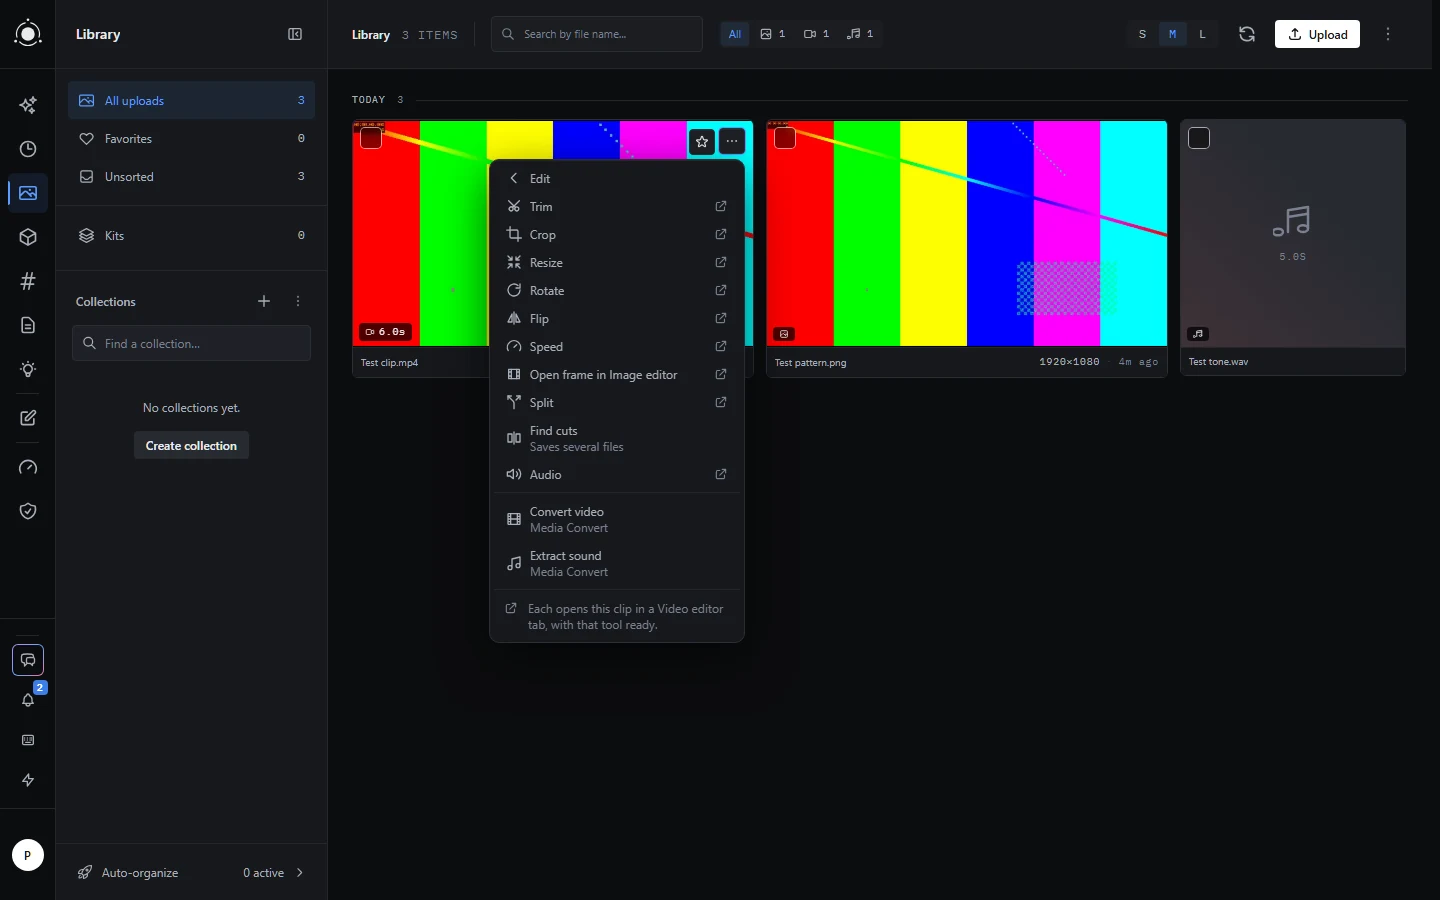
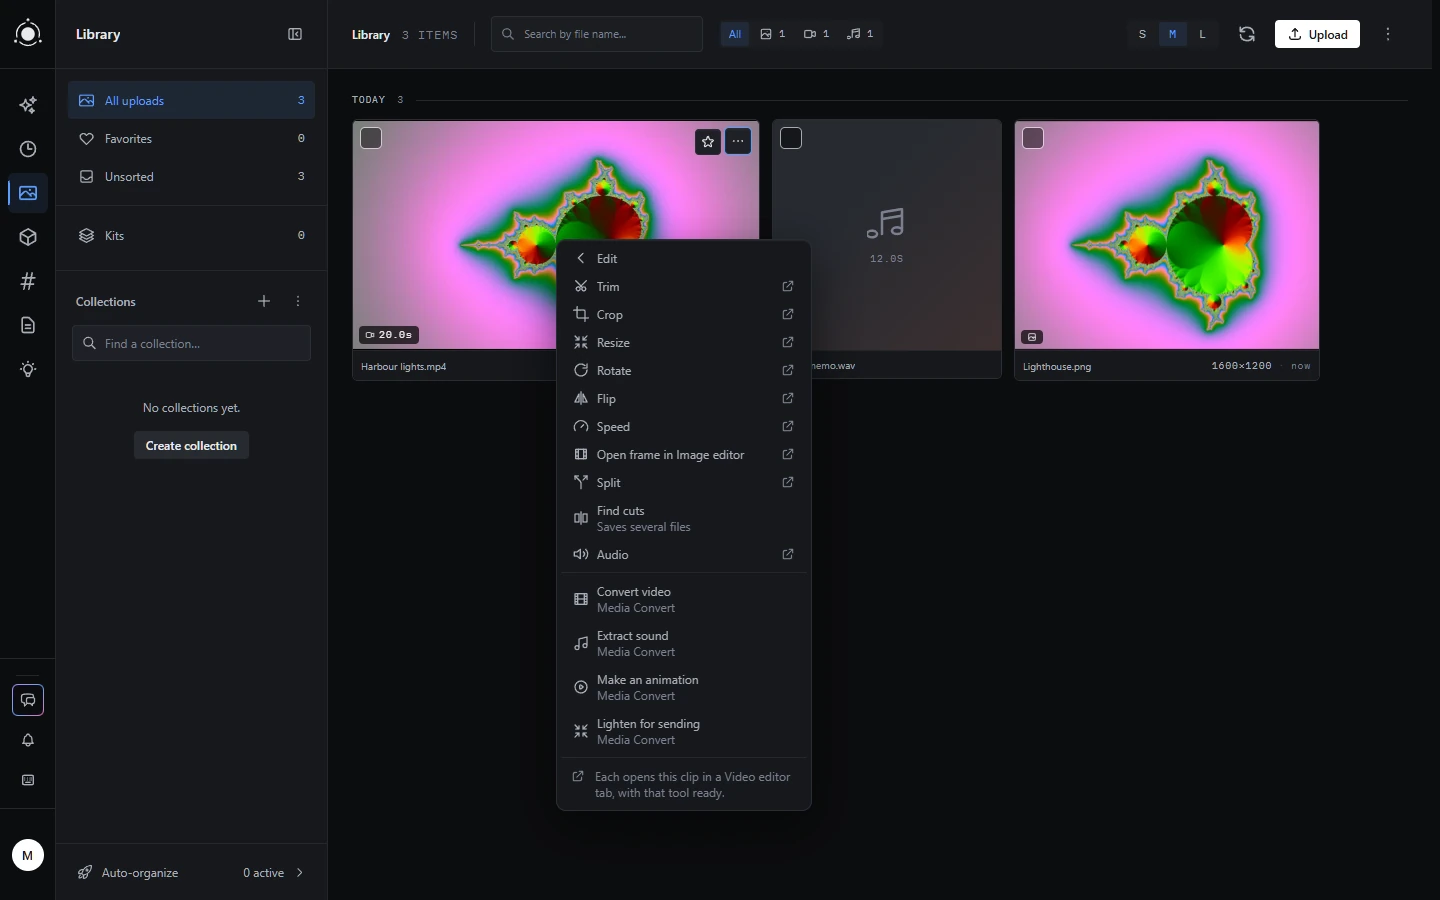
Media Converter README: show the new tools in the dark captures
Replace the capture of the Edit menu of a video, which now lists Make
an animation and Lighten for sending, and add one of the Make an
animation window. Both were taken on a test instance of PotionUI 0.2.0.

Changed region(s): [[0.2188, 0.1244, 1.0, 0.9022], [0.0, 0.7156, 0.0312, 0.8089], [0.0, 0.56, 0.0312, 0.5911]]

diff --git a/media-convert/README.md b/media-convert/README.md
@@ -13,7 +13,7 @@ Version 0.2.0. It needs PotionUI 0.2.0 or later.
 
 Updating from 0.1.0 or 0.1.1 to 0.2.0 needs its own order: disable Media Converter in **Admin › Plugins**, restart PotionUI, update it from the catalogue, then enable it. Tried in another order, the tools of the new version may not load: the update or the enabling ends with an error, and Media Converter stays on its old version or without its tools. If that happens, start again from the first step, and skip the update step if the catalogue already shows 0.2.0 installed.
 
-![The Library in the dark theme, with the Edit menu of a video open: Convert video and Extract sound, each marked Media Convert, below the tools of PotionUI](https://raw.githubusercontent.com/M4-S4/potionui-plugins/main/media-convert/docs/screenshots/tools-menu-dark.webp)
+![The Library in the dark theme, with the Edit menu of a video open: Convert video, Extract sound, Make an animation and Lighten for sending, each marked Media Convert, below the tools of PotionUI](https://raw.githubusercontent.com/M4-S4/potionui-plugins/main/media-convert/docs/screenshots/tools-menu-dark.webp)
 
 ## What it needs on the server
 
@@ -49,6 +49,8 @@ The tool window always saves a new item and never offers to replace the original
 ### Make an animation
 
 Pick the format, where the animation starts in the video, how long it lasts (10 seconds by default, from half a second to 30), its largest side (640, 480 or 320 px, never larger than the video), its frame rate and its quality. The result is an image item, `Clip.gif` or `Clip.webp`, that loops forever.
+
+![The Make an animation window on a 1920 × 1080 clip of 20 seconds: GIF, start 0, length 10 seconds, 480 px, frame rate Like the video, quality Balanced](https://raw.githubusercontent.com/M4-S4/potionui-plugins/main/media-convert/docs/screenshots/make-animation-dark.webp)
 
 - A GIF plays everywhere but grows fast with grain and movement: in our tests, 16 seconds of grainy footage at 640 px made a GIF of 47 MB, and 15 seconds at 320 px and Half one of 5 MB. An animated WebP plays in current browsers and weighed 2 to 16 times less than the GIF in our tests, the most on grainy footage. For a light GIF, pick 320 px, Half or A third.
 - The frame rate is the video's own, divided by the smallest whole number that brings it to 25 per second or less, and the other two steps keep every second or every third frame of that: a 16 fps clip gives 16, 8 or about 5 frames per second, a 30 fps clip 15, 7.5 or 5. The motion stays even.
